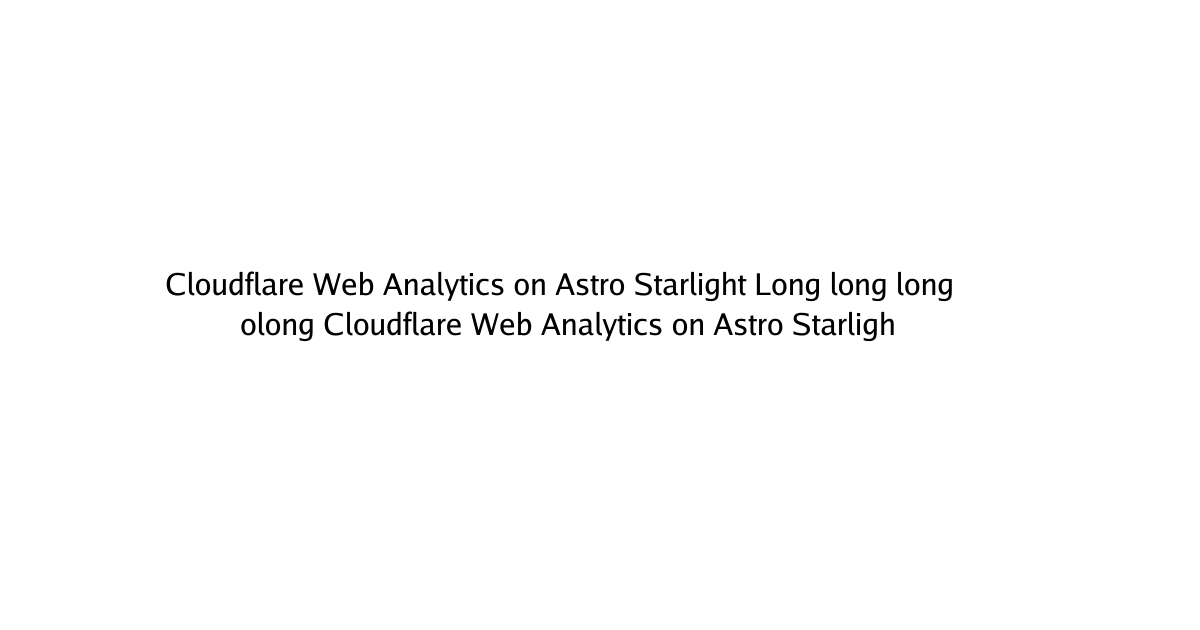
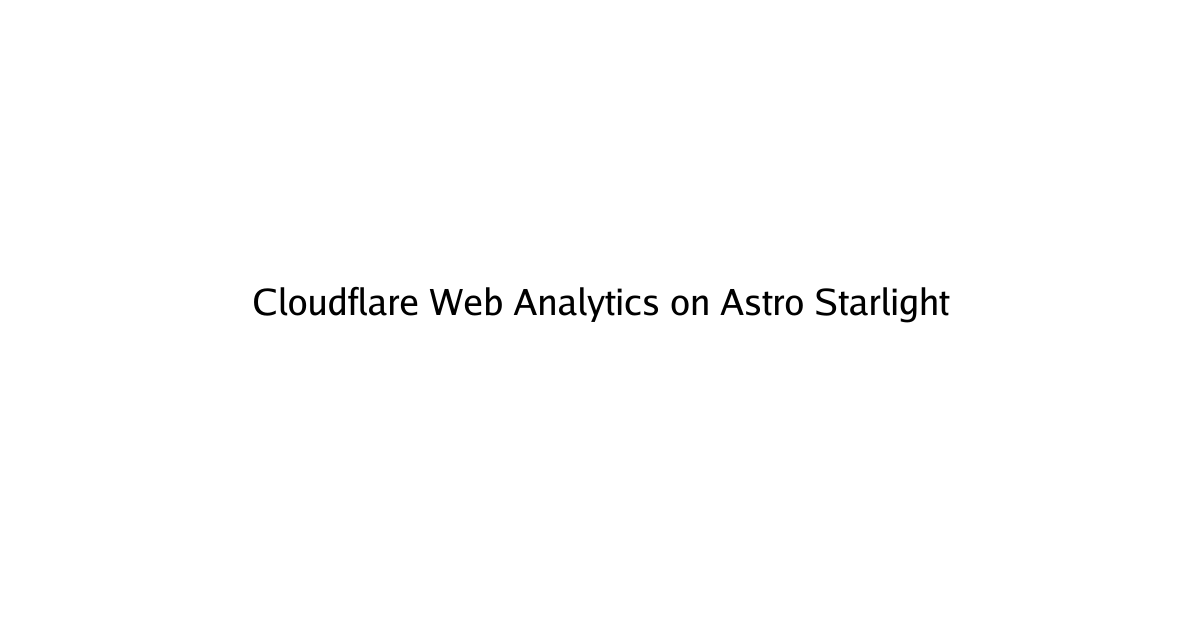
Improve Open Graph image generation (#15)

Changed region(s): [[0.1233, 0.4222, 0.8017, 0.5429]]

diff --git a/website/cmd/generate-og-images/main.go b/website/cmd/generate-og-images/main.go
@@ -15,6 +15,7 @@ import (
 
 	"github.com/golang/freetype"
 	"github.com/golang/freetype/truetype"
+	"golang.org/x/image/font"
 	"golang.org/x/image/font/gofont/goregular"
 	"golang.org/x/image/math/fixed"
 )
@@ -86,9 +87,9 @@ func generateImage(title, outputPath string) {
 
 	// Create freetype context with antialiasing
 	c := freetype.NewContext()
-	c.SetDPI(72)
+	c.SetDPI(144)
 	c.SetFont(f)
-	c.SetFontSize(30)
+	c.SetFontSize(18)
 	c.SetClip(img.Bounds())
 	c.SetDst(img)
 	c.SetSrc(image.NewUniform(color.Black))
@@ -98,14 +99,20 @@ func generateImage(title, outputPath string) {
 	lines := wrapText(title, maxWidth, c)
 	
 	// Calculate starting Y position for multiple lines
-	lineHeight := c.PointToFixed(40)
+	lineHeight := c.PointToFixed(30)
 	totalHeight := lineHeight * fixed.Int26_6(len(lines)-1)
 	startY := fixed.I(height/2) - totalHeight/2
 	
 	// Draw each line centered
 	for i, line := range lines {
-		textWidth := c.PointToFixed(30) * fixed.Int26_6(len(line)) / 2
-		x := (fixed.I(width) - textWidth) / 2
+		// Dynamic centering: measure actual text width like CSS flexbox
+		face := truetype.NewFace(f, &truetype.Options{
+			Size: 18,
+			DPI:  144,
+		})
+		textWidth := font.MeasureString(face, line)
+		actualWidth := int(textWidth >> 6)
+		x := fixed.I(width/2 - actualWidth/2)
 		y := startY + lineHeight*fixed.Int26_6(i)
 		
 		pt := fixed.Point26_6{X: x, Y: y}
@@ -138,9 +145,8 @@ func wrapText(text string, maxWidth int, c *freetype.Context) []string {
 		}
 		testLine += word
 		
-		// Rough estimate: 30px font ≈ 18px average character width
-		estimatedWidth := len(testLine) * 18
-		if estimatedWidth > maxWidth && currentLine != "" {
+		// Force wrapping at 50 characters per line
+		if len(testLine) > 50 && currentLine != "" {
 			lines = append(lines, currentLine)
 			currentLine = word
 		} else {

diff --git a/website/content/cloudflare/prevent-duplicate-content-cloudflare-pages.md b/website/content/cloudflare/prevent-duplicate-content-cloudflare-pages.md
@@ -1,5 +1,5 @@
 +++
-title = 'Prevent SEO Issues on Cloudflare Pages with X-Robots-Tag'
+title = 'Prevent SEO Issues on Cloudflare Pages with X-Robots-Tag - Prevent SEO Issues on Cloudflare Pages with X-Robots-Ta'
 date = 2025-11-18T09:00:00-08:00
 draft = false
 tags = ['cloudflare', 'seo']
